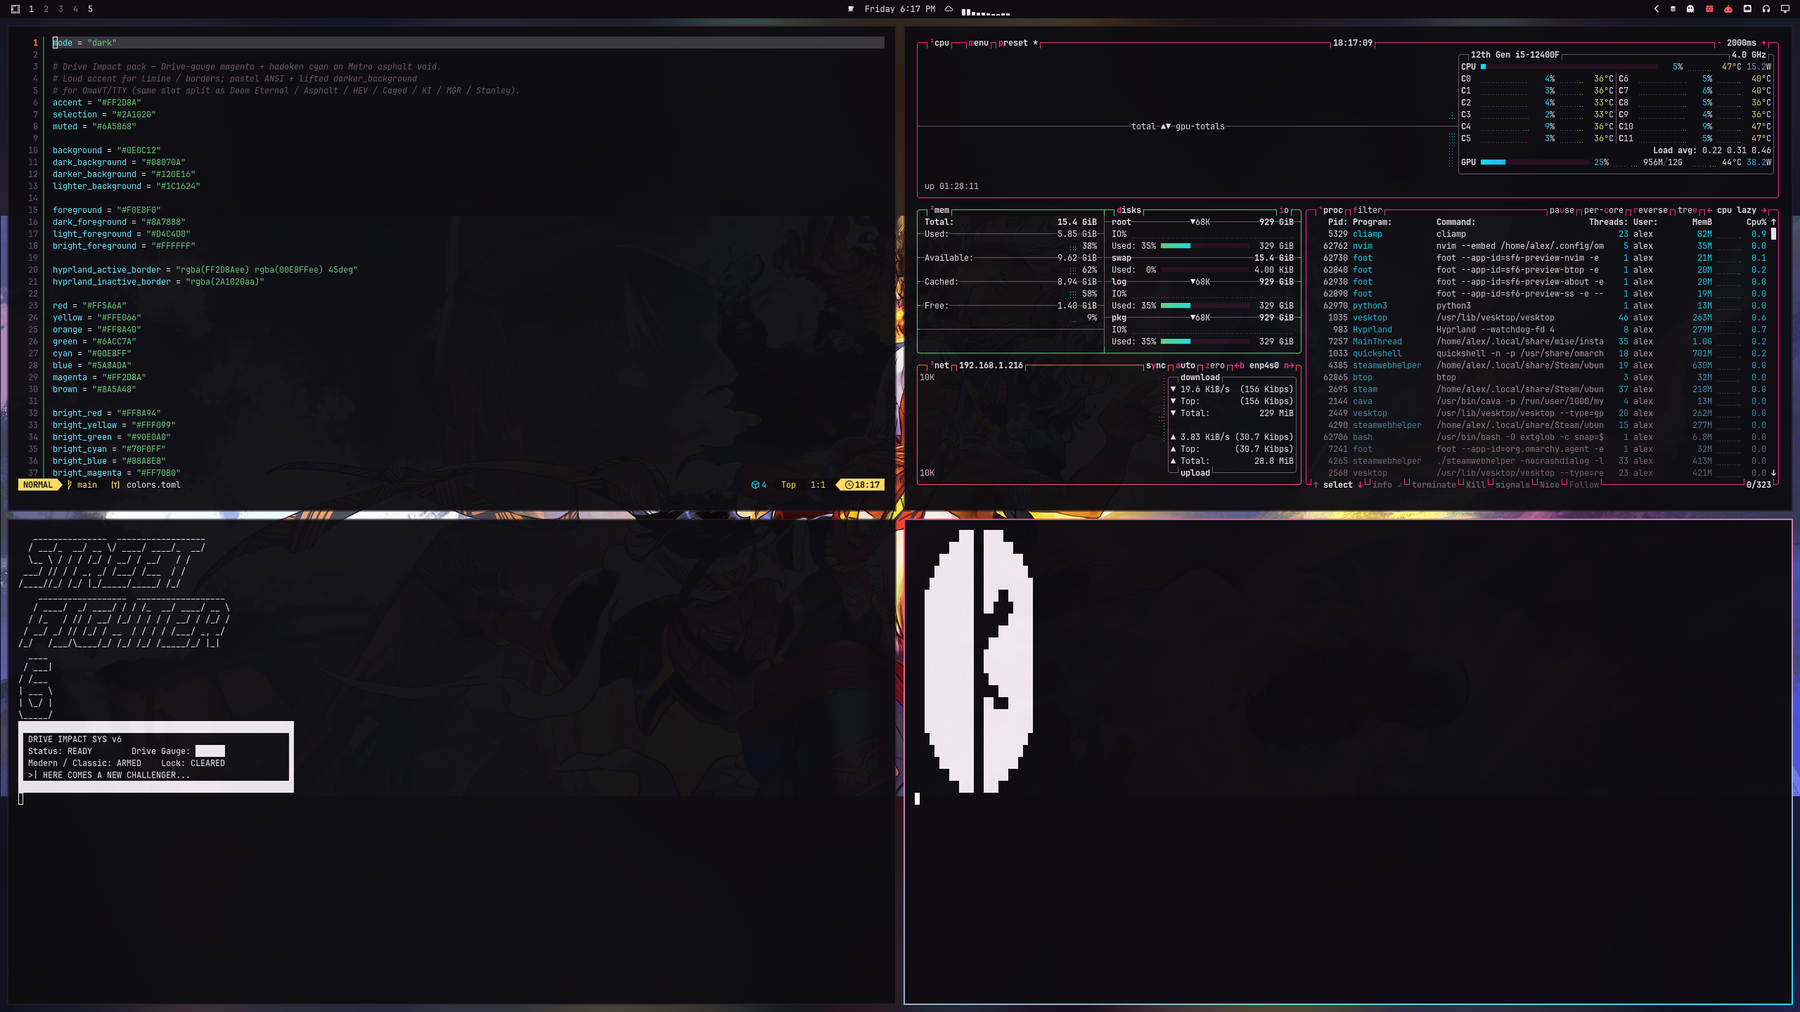
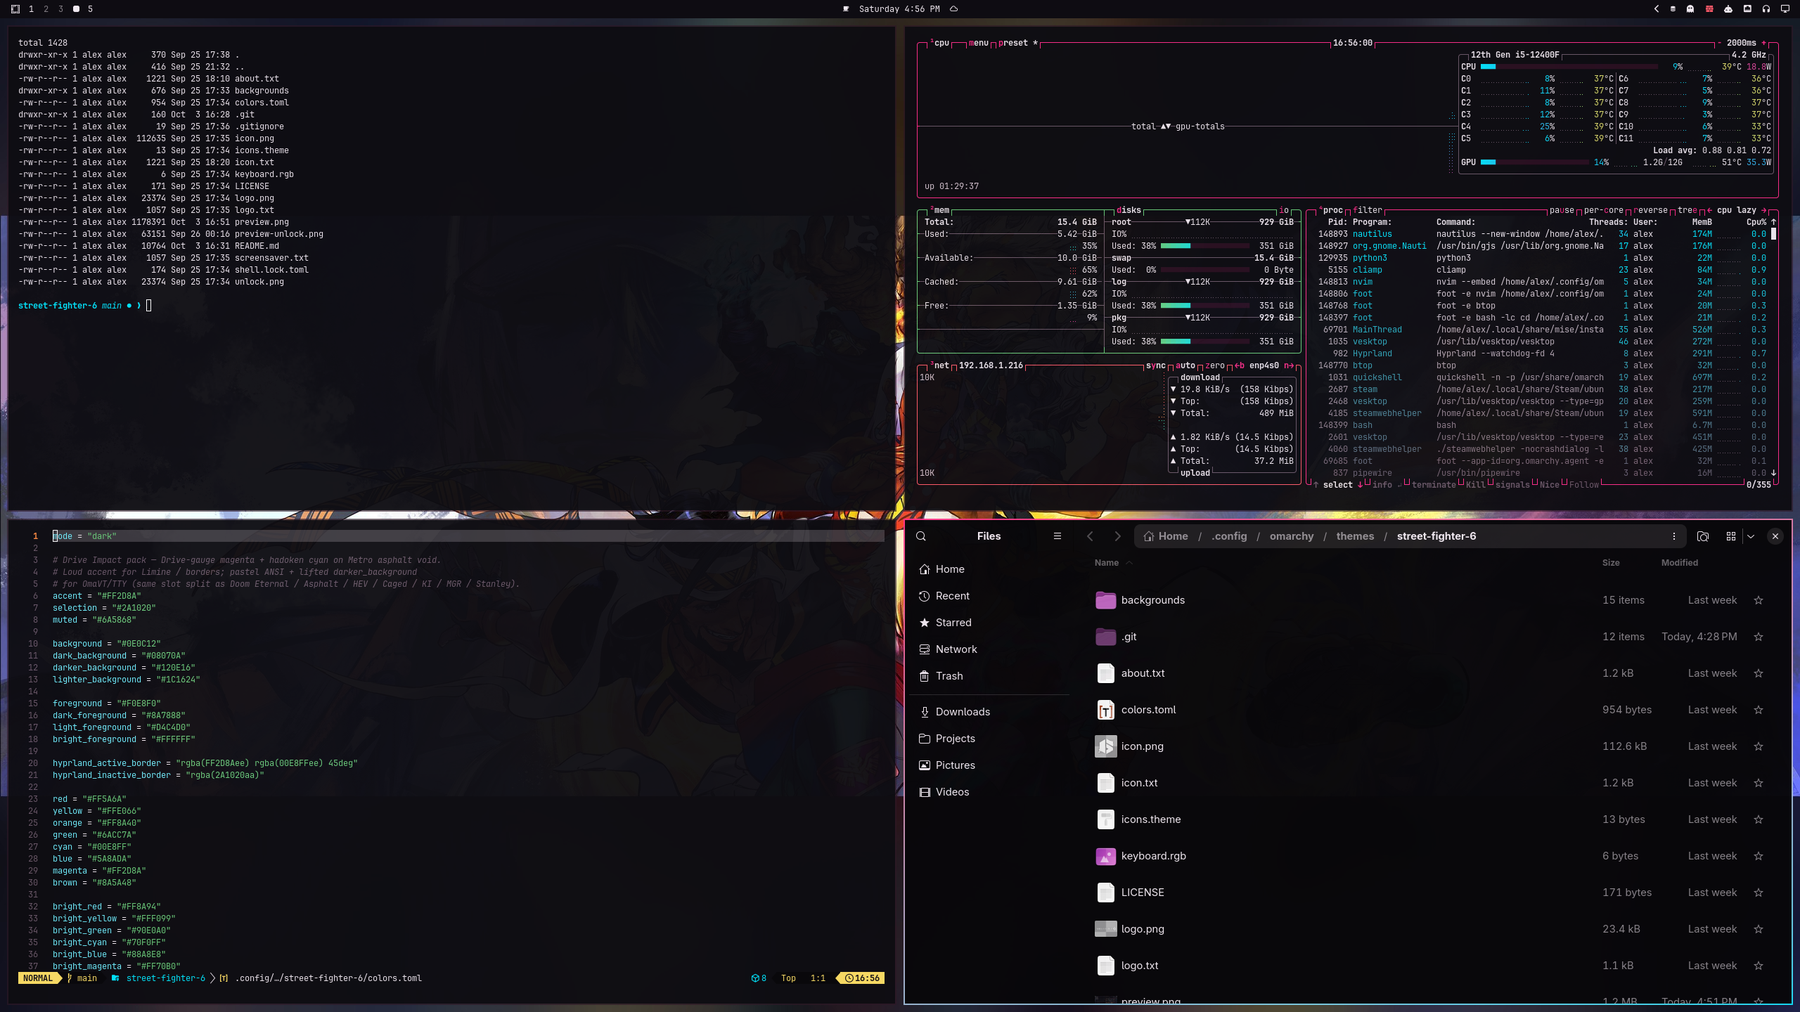
Drop bar cava from rice preview; mention Omarchy Cava for empty-workspace vibing.

diff --git a/README.md b/README.md
@@ -173,6 +173,11 @@ full wipe: `…/<plugin>/uninstall.sh --yes`.
   follows Omarchy themes live:  
   `omarchy plugin add https://github.com/ASwenia/omacord --enable`
 
+- **[Omarchy Cava](https://github.com/duncio/omarchy-cava)** — theme-aware audio
+  bars along the bottom of an empty workspace (hides when windows show up). Goes
+  well with your music when you're vibing:  
+  `omarchy plugin add https://github.com/duncio/omarchy-cava --enable`
+
 ### Agent / desktop bridge
 
 - **[OMCP](https://github.com/btsouth/omarchy-omcp)** — MCP desktop bridge:  
